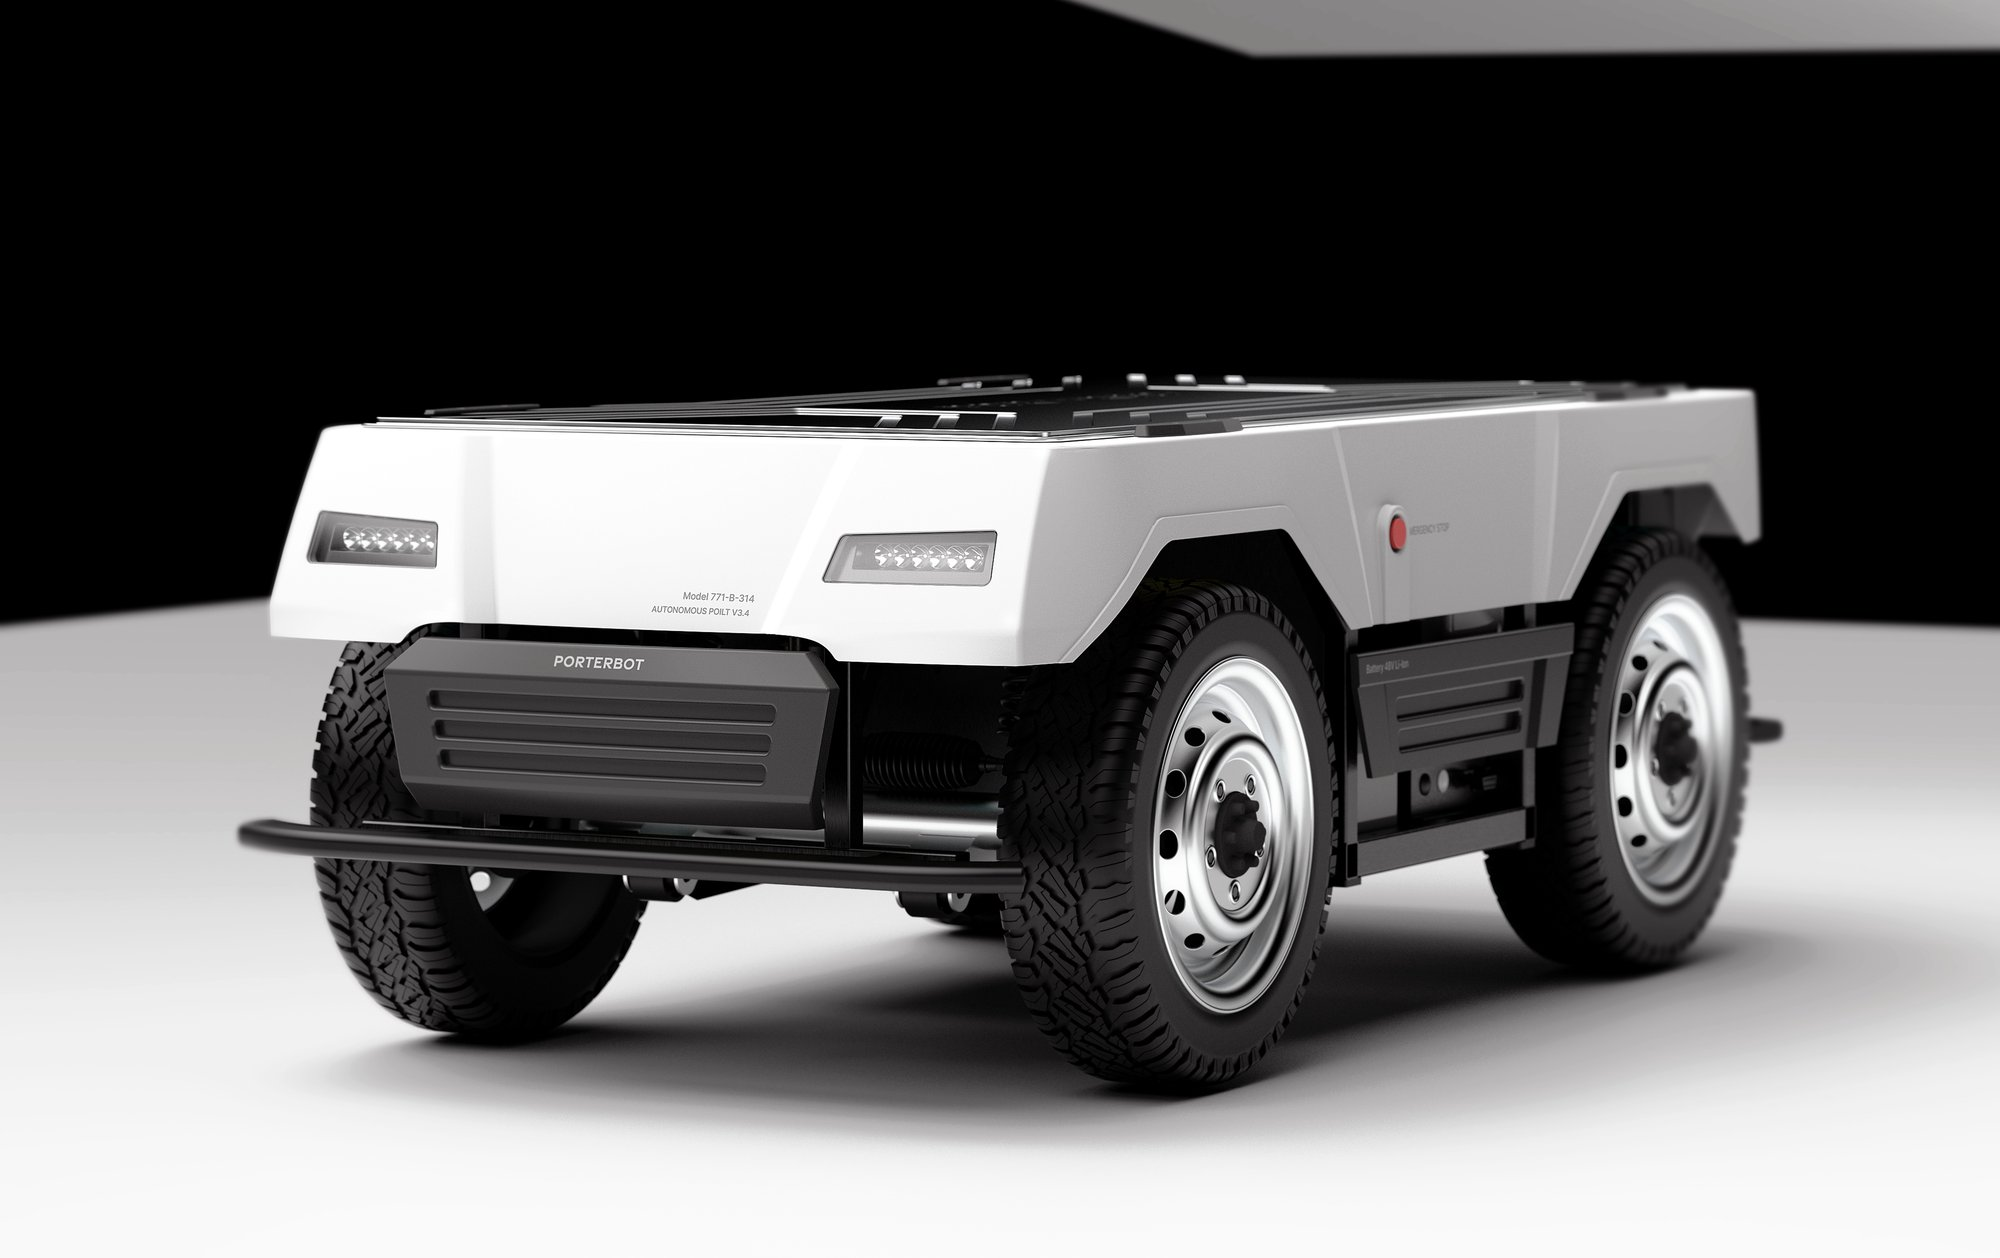
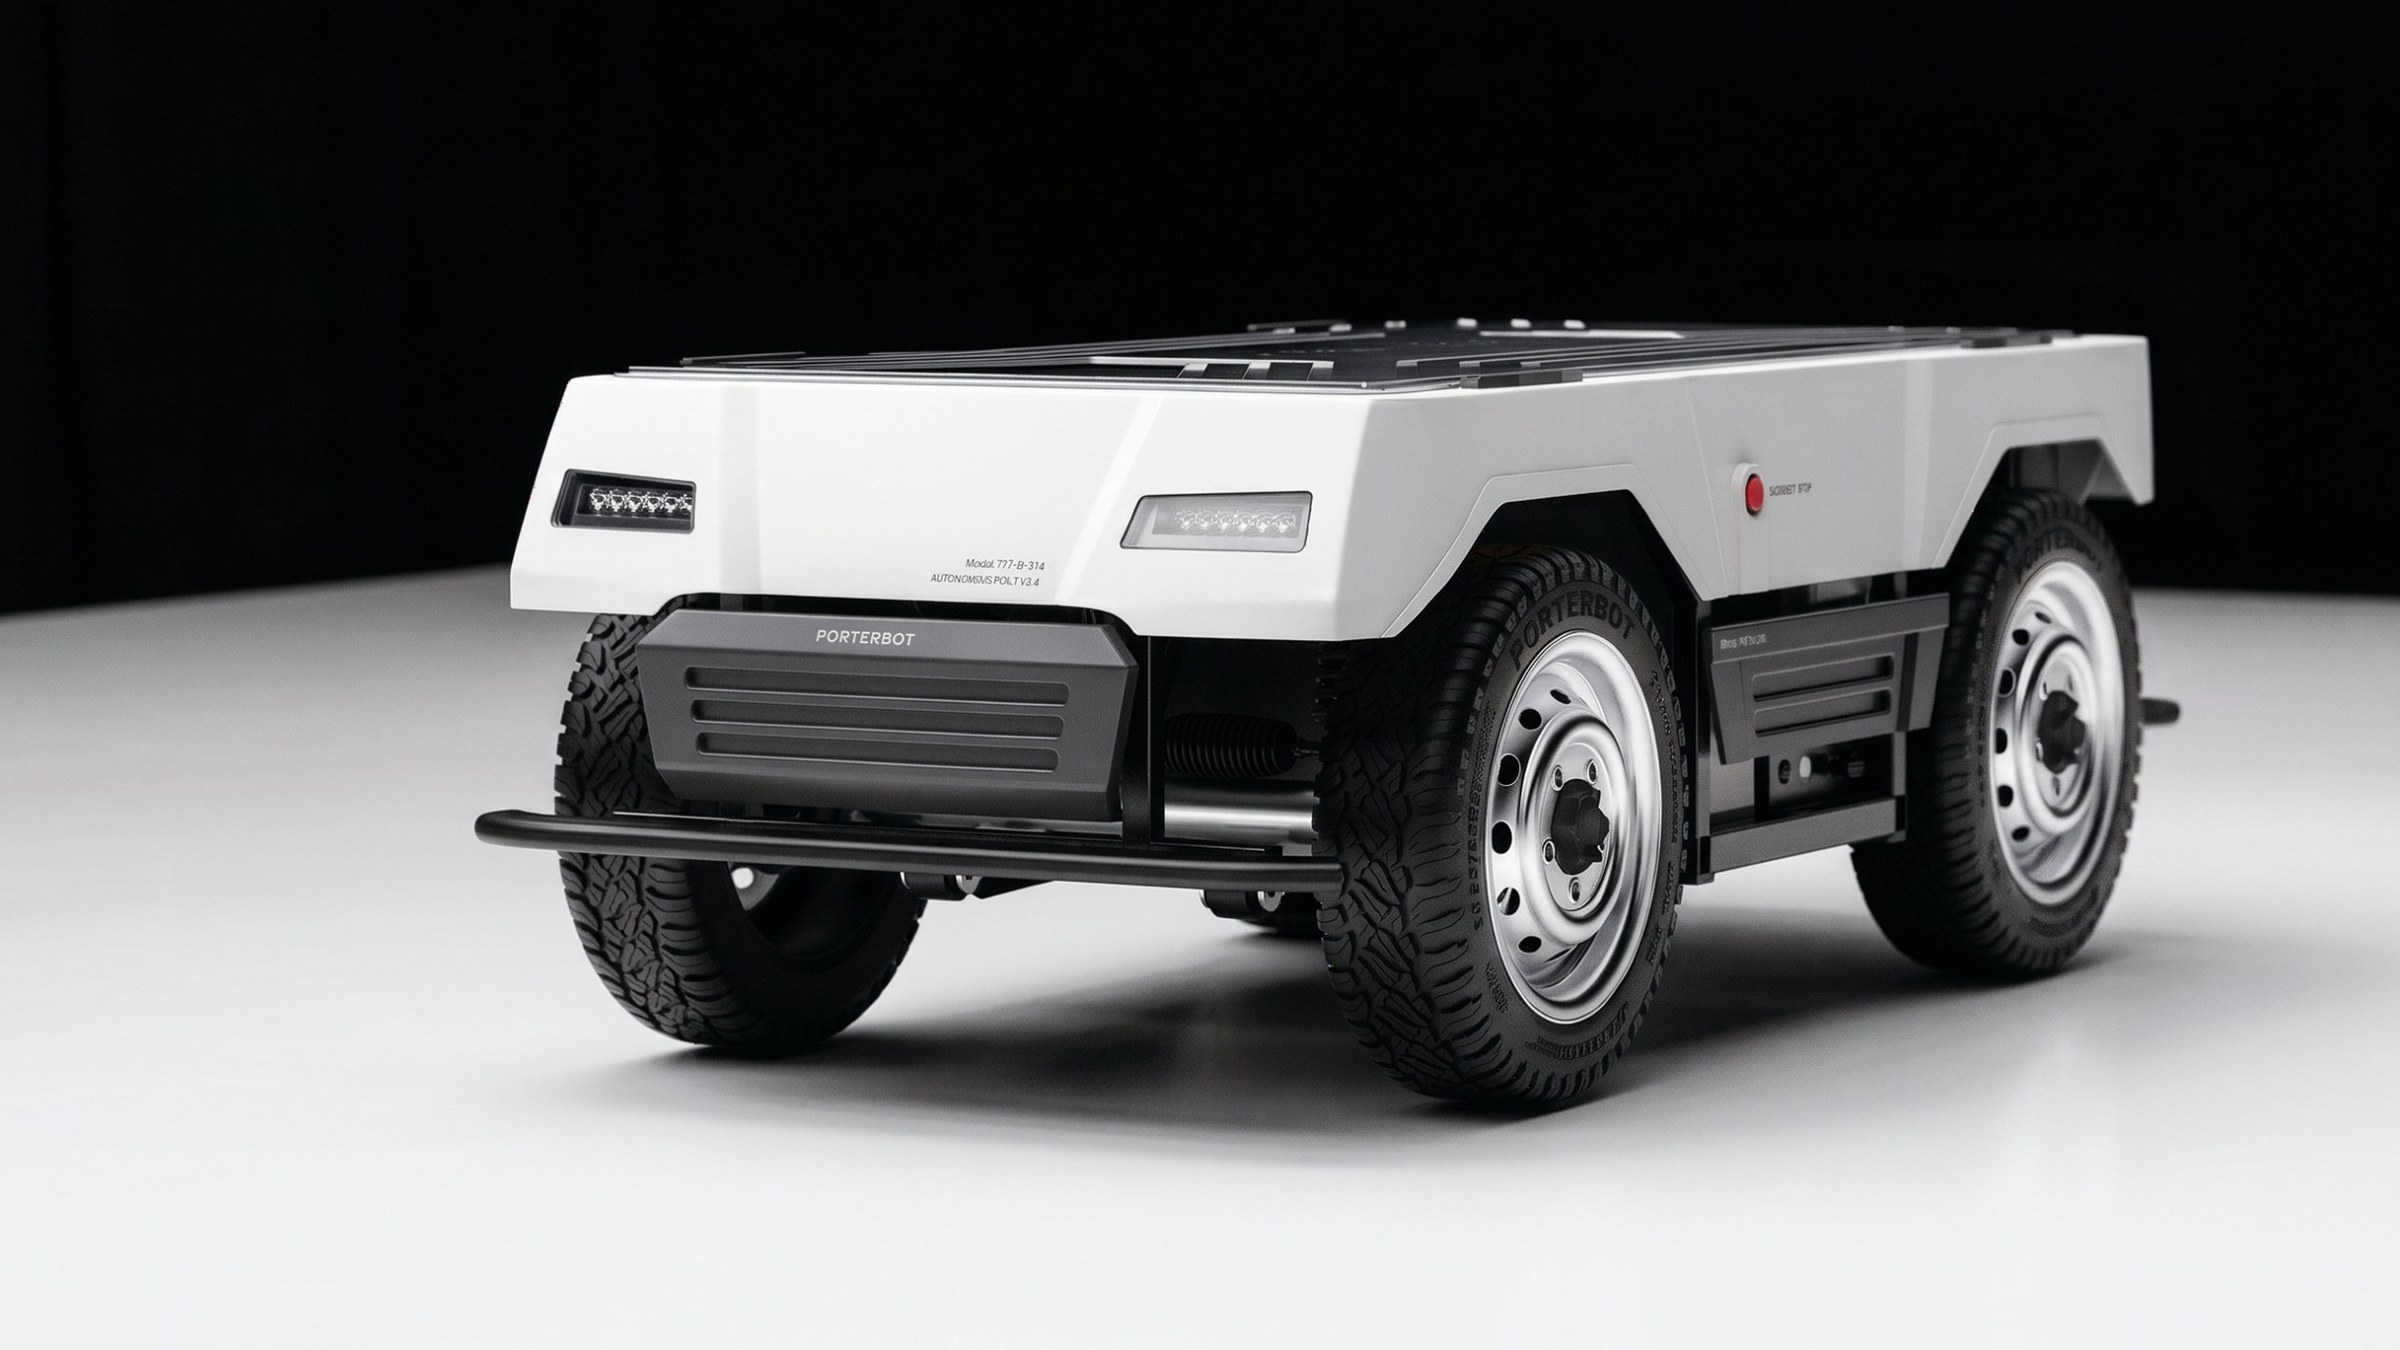
PORTERBOT: use black-background shot as hero
Claude-Session: https://claude.ai/code/session_01DuSswWf5f4YisWgcdZdx4a

diff --git a/povervot.html b/povervot.html
@@ -22,15 +22,14 @@
   <p class="meta"><span class="mi">2024.07</span><span class="dot"> · </span><span class="mi">Intern Works</span></p>
 </div>
 </div>
-<div class="p-hero"><img src="images/potervot-hero.jpg?v=1791817266" width="2000" height="1258" alt="PORTERBOT 대표 이미지"></div>
+<div class="p-hero"><img src="images/potervot-hero.jpg?v=1792853804" width="2400" height="1350" alt="PORTERBOT 대표 이미지"></div>
 <div class="wrap">
 <div class="p-text"><div><h3>Background</h3><p>PORTERBOT은 사용자의 농업 작업을 보조하며 움직이는 자율주행형 이동체이다.</p><p>강한 짐꾼의 이미지를 형상화한 디자인은 블로우 성형으로 원피스로 찍어낼 수 있도록 디자인하였으며, 상판은 알루미늄으로 설계하여 거친 환경에서도 파손의 우려를 줄인다.</p></div><div><h3>Concept &amp; Solution</h3><p>험난한 농촌 환경에서의 성능을 위한 기능적 조형과 사용자와 지속적인 접점이 있는 제품으로 친근하고 익숙한 조형을 결합하여 디자인하였다.</p></div></div>
 <div class="imgs">
-<img src="images/potervot-1.jpg?v=1792853668" width="2400" height="1340" alt="PORTERBOT 이미지 1" loading="lazy">
-<img src="images/potervot-2.jpg?v=1792853668" width="2400" height="2025" alt="PORTERBOT 이미지 2" loading="lazy">
-<img src="images/potervot-3.jpg?v=1792853669" width="2400" height="2400" alt="PORTERBOT 이미지 3" loading="lazy">
-<img src="images/potervot-4.jpg?v=1792853669" width="2400" height="1710" alt="PORTERBOT 이미지 4" loading="lazy">
-<img src="images/potervot-5.jpg?v=1792853669" width="2400" height="1350" alt="PORTERBOT 이미지 5" loading="lazy">
+<img src="images/potervot-2.jpg?v=1792853668" width="2400" height="2025" alt="PORTERBOT 이미지 1" loading="lazy">
+<img src="images/potervot-3.jpg?v=1792853669" width="2400" height="2400" alt="PORTERBOT 이미지 2" loading="lazy">
+<img src="images/potervot-4.jpg?v=1792853669" width="2400" height="1710" alt="PORTERBOT 이미지 3" loading="lazy">
+<img src="images/potervot-5.jpg?v=1792853669" width="2400" height="1350" alt="PORTERBOT 이미지 4" loading="lazy">
 </div>
 <nav class="pn"><a href="unveiling.html"><span>Prev</span>UNVEILING</a><a href="bymory.html"><span>Next</span>BY MORY</a></nav>
 </div>
